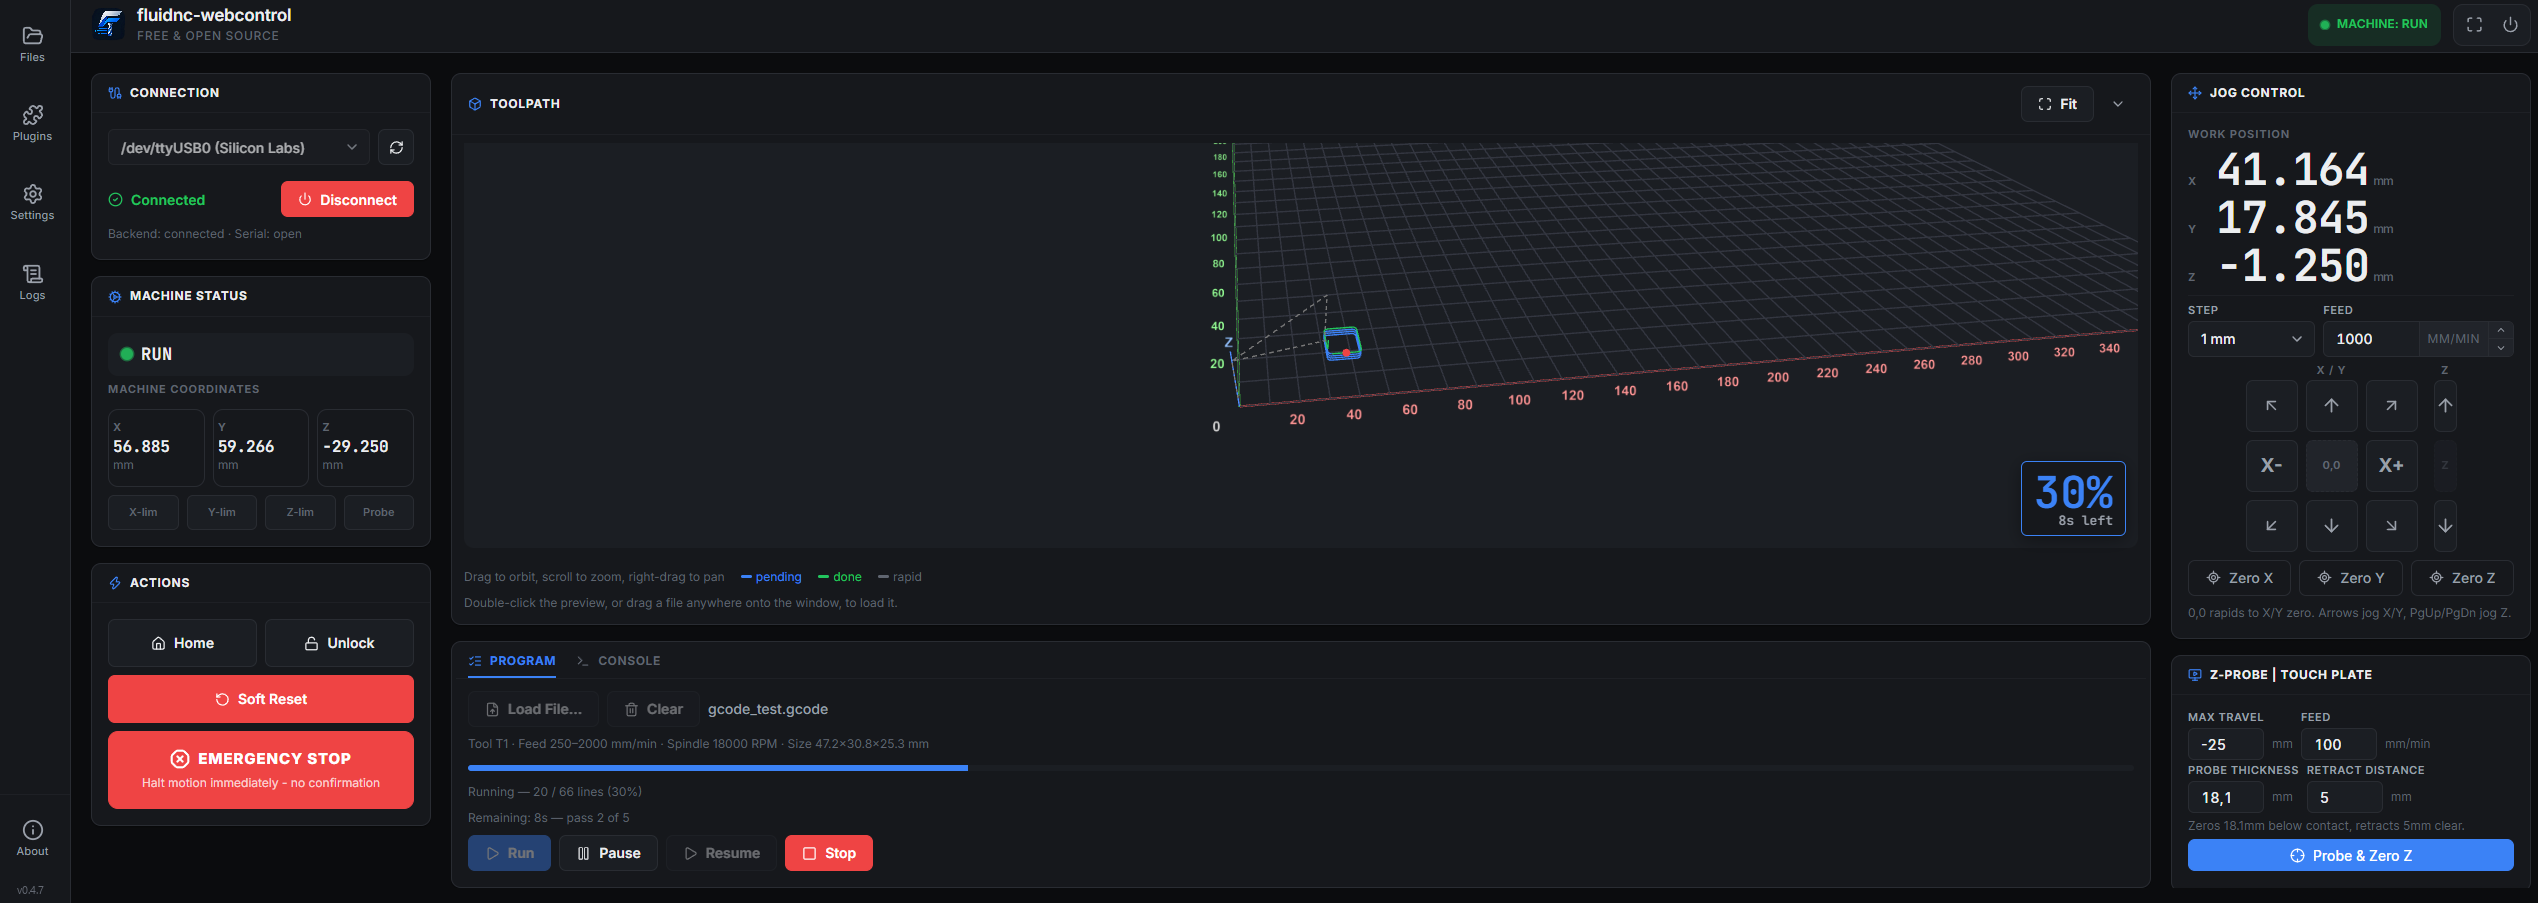
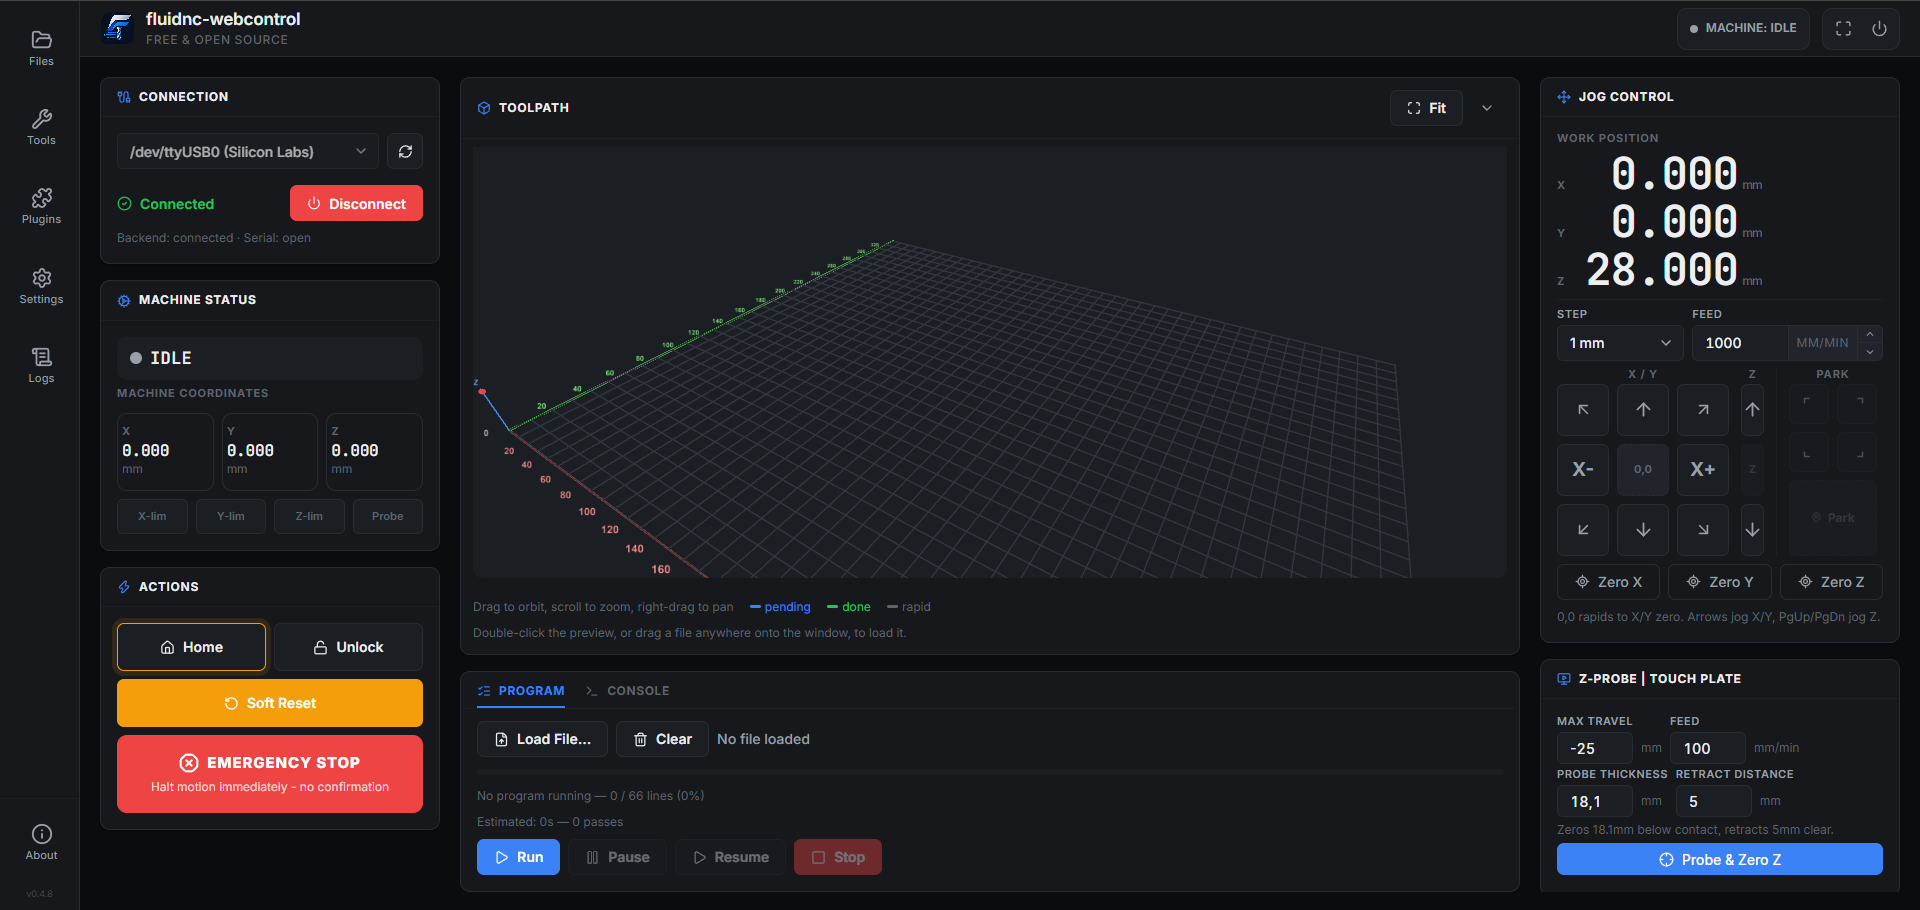
docs: refresh README screenshots for v0.4.8, add Tools tab
Every screenshot recaptured against the real Pi running v0.4.8 (Park
next to Jog Control, renamed Settings > Park Corner, the new Surfacing/
Facing plugin) - main-screen, file-manager, plugins, settings, and logs
replaced in place, plus a new tools.png for the Tools sidebar tab that
never had a screenshot before now. README's table reflows to 3+3 to fit
the new one in.

diff --git a/README.md b/README.md
@@ -10,13 +10,13 @@ This project is an independent community effort and is not affiliated with or en
 
 > **Before you start:** your controller must already be running FluidNC firmware with a working `config.yaml` for your machine. This is a web control interface for an *existing, already-configured* FluidNC setup — it does not flash firmware or write machine configuration for you. Haven't set that up yet? See [FluidNC's own documentation](http://wiki.fluidnc.com/en/home) first.
 
-| Main screen | File Manager | Plugins |
+| Main screen | File Manager | Tools |
 |---|---|---|
-| ![Main screen](docs/screenshots/main-screen.png) | ![File Manager](docs/screenshots/file-manager.png) | ![Plugins](docs/screenshots/plugins.png) |
+| ![Main screen](docs/screenshots/main-screen.png) | ![File Manager](docs/screenshots/file-manager.png) | ![Tools](docs/screenshots/tools.png) |
 
-| Settings | Logs |
-|---|---|
-| ![Settings](docs/screenshots/settings.png) | ![Logs](docs/screenshots/logs.png) |
+| Plugins | Settings | Logs |
+|---|---|---|
+| ![Plugins](docs/screenshots/plugins.png) | ![Settings](docs/screenshots/settings.png) | ![Logs](docs/screenshots/logs.png) |
 
 ## Demo
 
